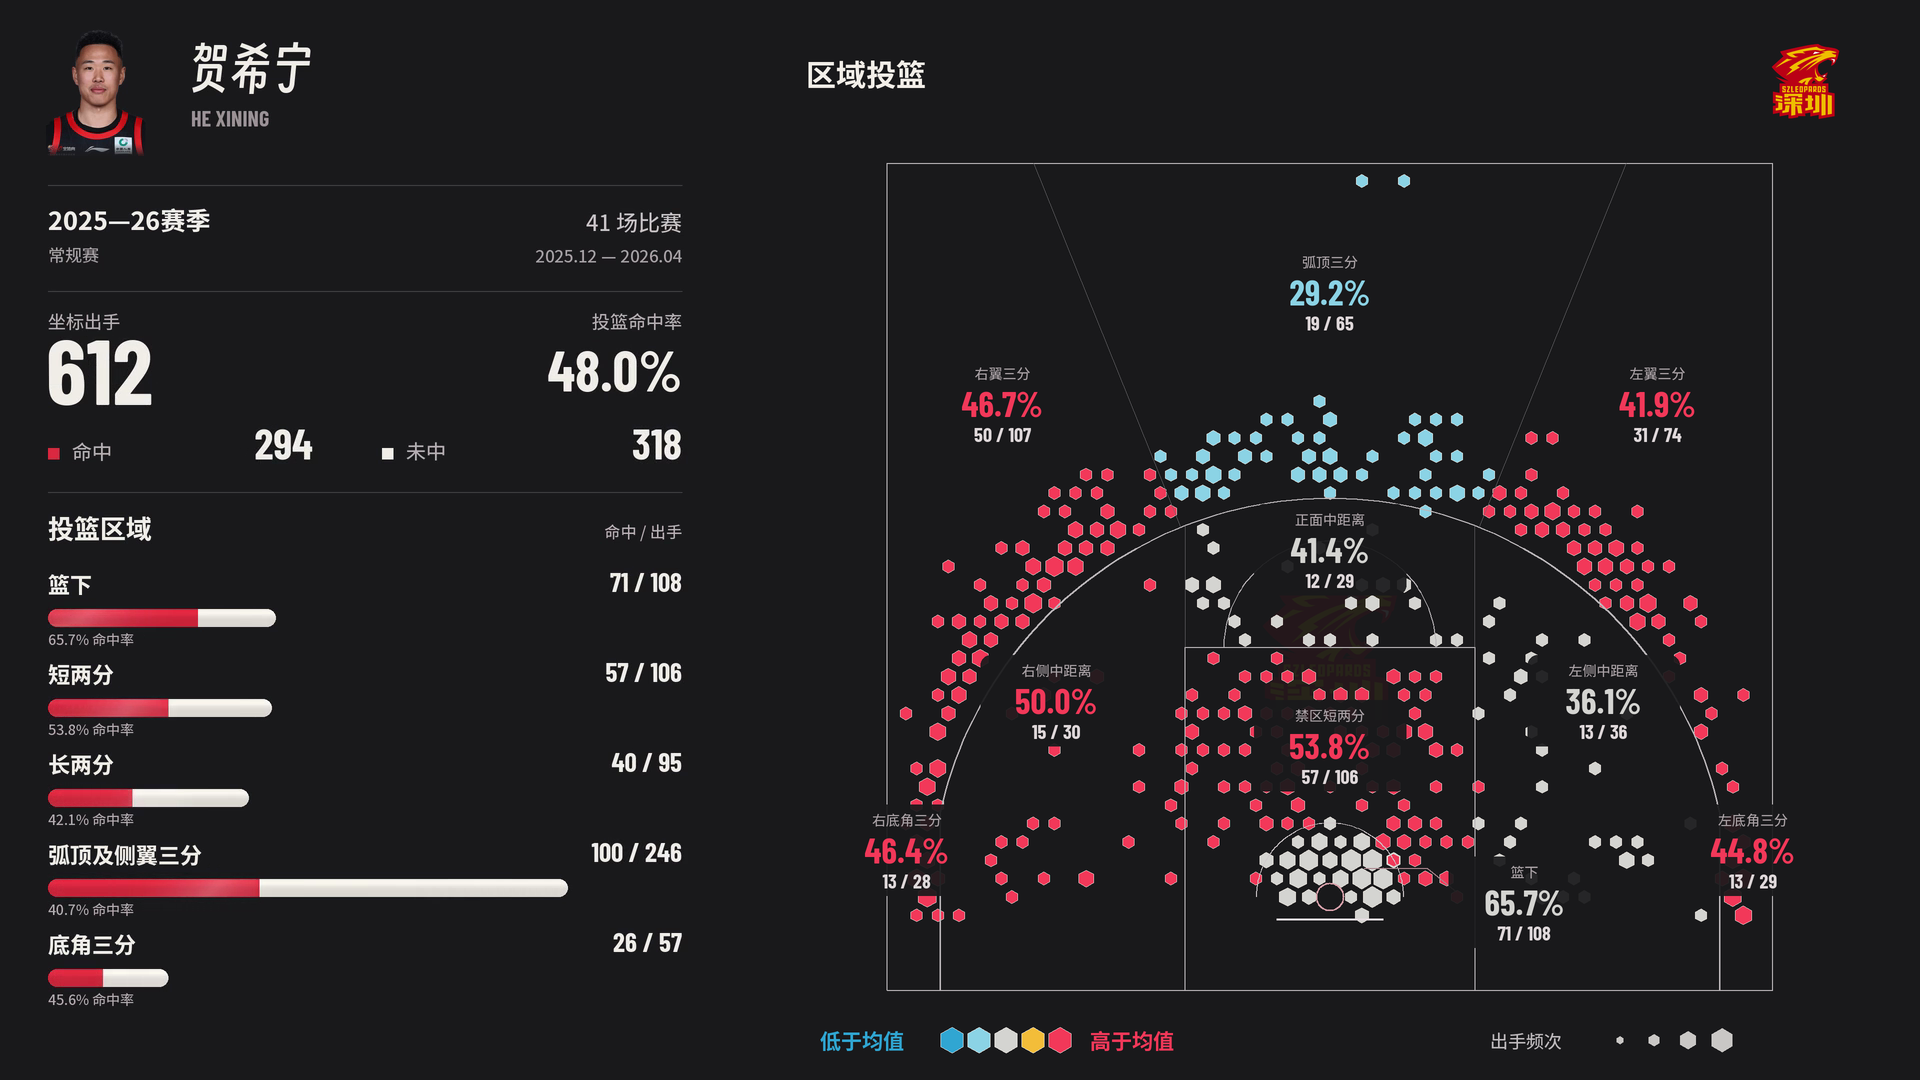
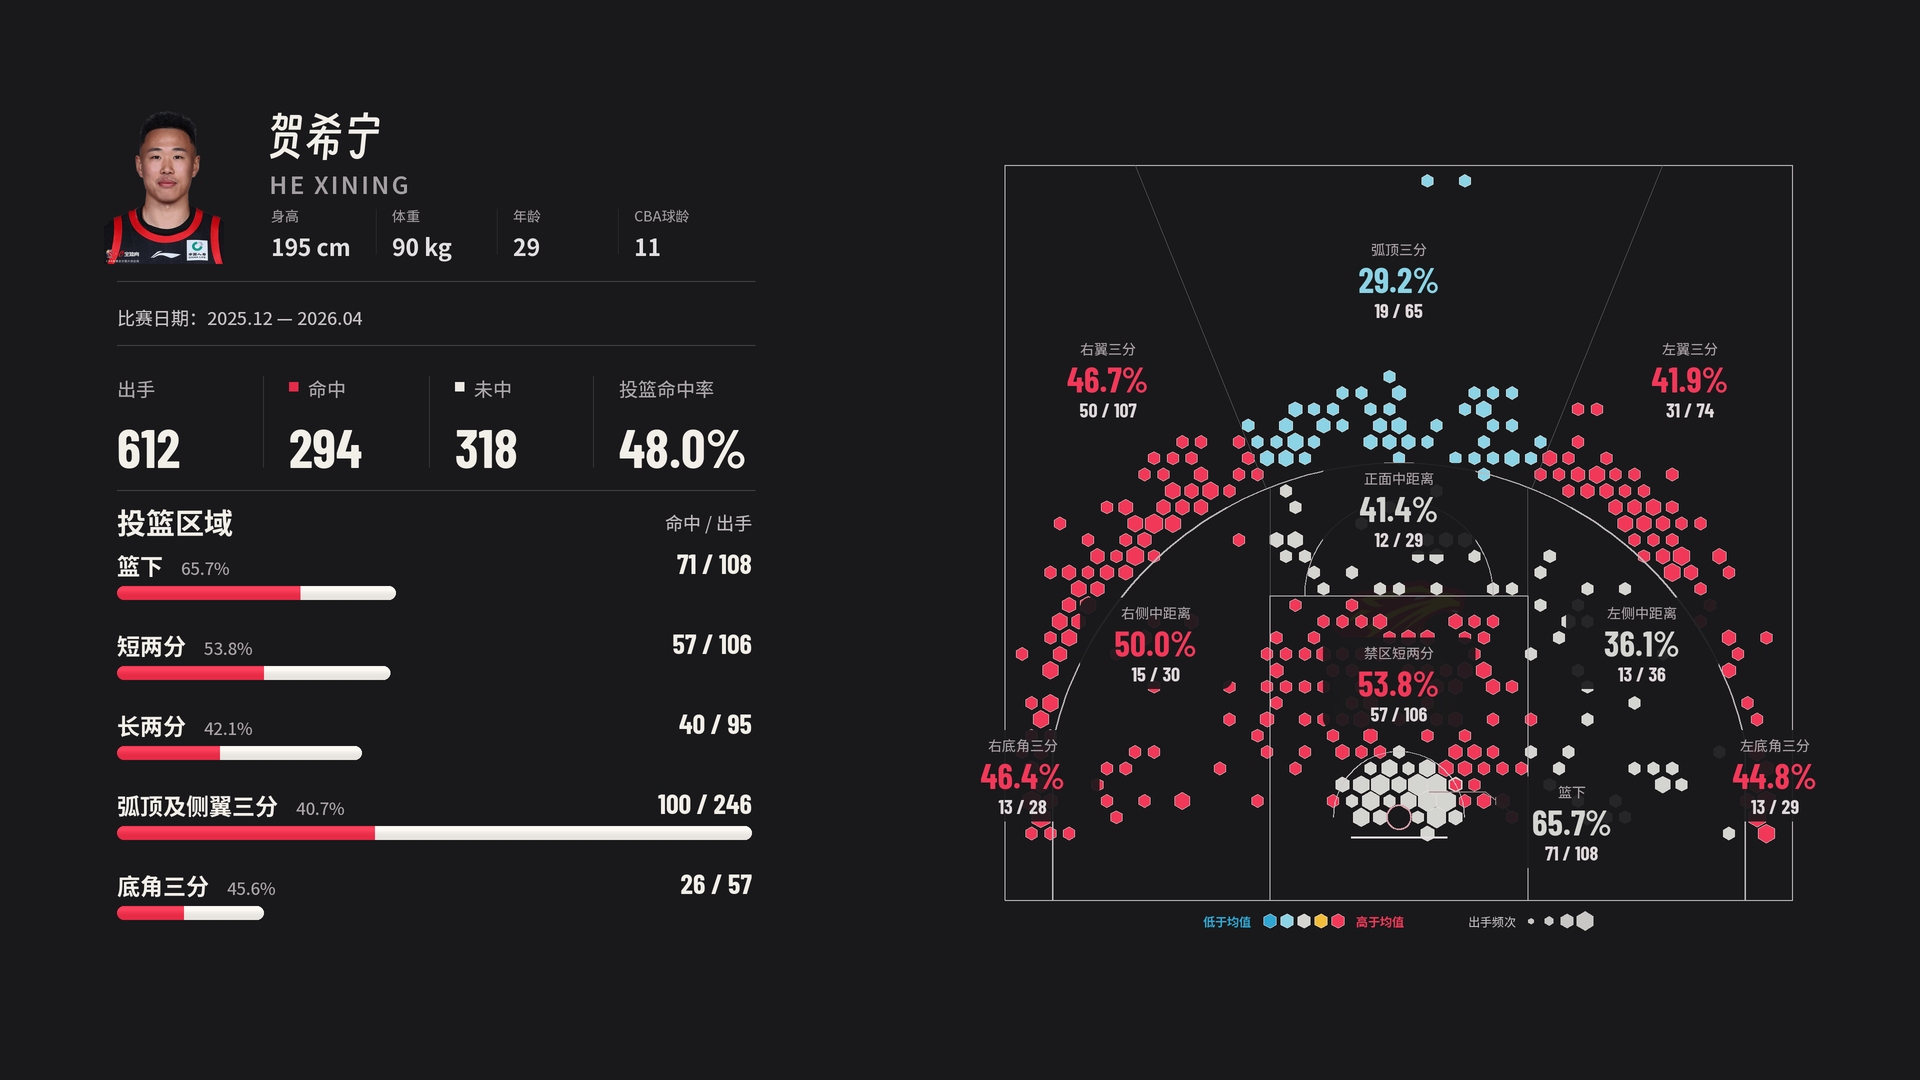
Sync approved date-only sidebar and centered summary legends

diff --git a/skills/nba-shot-atlas/scripts/render_static_summary.py b/skills/nba-shot-atlas/scripts/render_static_summary.py
@@ -71,33 +71,38 @@ en_x=200*S;en_tracking=2.0*S
 for ch in job['name_en']:
  ImageDraw.Draw(side).text((round(en_x),166*S),ch,font=en_font,fill='#a39fa2',anchor='la')
  en_x+=en_font.getlength(ch)+en_tracking
-for j,(label,value) in enumerate([('身高',(f"{job['height_cm']:g} cm" if job.get('height_cm') is not None else '—')),('体重',(f"{job['weight_kg']:g} kg" if job.get('weight_kg') is not None else '—')),('年龄',f'{age}岁' if age is not None else '—'),(job['league']+'球龄',f"第{job['league_season_number']}季" if job.get('league_season_number') else '—')]):
+for j,(label,value) in enumerate([('身高',(f"{job['height_cm']:g} cm" if job.get('height_cm') is not None else '—')),('体重',(f"{job['weight_kg']:g} kg" if job.get('weight_kg') is not None else '—')),('年龄',str(age) if age is not None else '—'),(job['league']+'球龄',str(job['league_season_number']) if job.get('league_season_number') else '—')]):
  x=202+j*121
  st(x,205,label,14,'#9e999d');st(x,229,value,23,'#e1dfe0','bold')
  if j<3:line(side,[(x+105,209),(x+105,254)],'#343437',.7)
 hline(281)
-st(48,305,job['season_label'],30,weight='bold');st(682,305,job['record_label'],21,'#d2ced1',anchor='ra')
-st(48,345,job['scope_label'],20,'#b9b4b8');st(682,345,job['date_label'],18,'#b9b4b8',anchor='ra')
-hline(384)
+# Compact date-only band; the space saved gives the region rows more air.
+date_label=job['date_label']
+if '—' in date_label:
+ left,right=map(str.strip,date_label.split('—',1))
+ if len(right)==5 and len(left)>=10:right=left[:5]+right
+ date_label=left+' — '+right
+st(48,304,'比赛日期：'+date_label,18,'#c6c2c5')
+hline(345)
 # Four independent columns: attempts, makes, misses, FG percentage.
-st(48,410,job.get('attempt_label','坐标出手' if job.get('missing_coordinate_attempts',0) else '出手'),19,'#aaa6a9')
-poly(side,[(220,418),(229,418),(229,427),(220,427)],'#e52b4a');st(239,410,'命中',19,'#aaa6a9')
-poly(side,[(386,418),(395,418),(395,427),(386,427)],'#ede9e3');st(405,410,'未中',19,'#aaa6a9')
-st(550,410,'投篮命中率',19,'#aaa6a9')
-for x in [194,360,524]:line(side,[(x,412),(x,503)],'#353437',.8)
-st(48,450,str(len(rows)),54,weight='number')
-st(220,450,str(job['expected_made']),54,weight='number')
-st(386,450,str(len(rows)-job['expected_made']),54,weight='number')
-st(550,450,f"{100*job['expected_made']/len(rows):.1f}%",54,weight='number')
-hline(526)
-st(48,536,'投篮区域',29,weight='bold');st(683,545,'命中 / 出手',18,'#bdb8bb',anchor='ra')
+st(48,374,job.get('attempt_label','坐标出手' if job.get('missing_coordinate_attempts',0) else '出手'),19,'#aaa6a9')
+poly(side,[(220,382),(229,382),(229,391),(220,391)],'#e52b4a');st(239,374,'命中',19,'#aaa6a9')
+poly(side,[(386,382),(395,382),(395,391),(386,391)],'#ede9e3');st(405,374,'未中',19,'#aaa6a9')
+st(550,374,'投篮命中率',19,'#aaa6a9')
+for x in [194,360,524]:line(side,[(x,376),(x,467)],'#353437',.8)
+st(48,414,str(len(rows)),54,weight='number')
+st(220,414,str(job['expected_made']),54,weight='number')
+st(386,414,str(len(rows)-job['expected_made']),54,weight='number')
+st(550,414,f"{100*job['expected_made']/len(rows):.1f}%",54,weight='number')
+hline(490)
+st(48,500,'投篮区域',29,weight='bold');st(683,509,'命中 / 出手',18,'#bdb8bb',anchor='ra')
 # Sidebar uses the same five rules as the ten-zone court.
 from zone_geometry import coarse as zone
 coarse_side=np.zeros((5,2),int)
 for r in rows:coarse_side[zone(r),0 if r['shot_result']=='Made' else 1]+=1
 names=['篮下','短两分','长两分','弧顶及侧翼三分','底角三分'];scale=max(coarse_side.sum(1));max_width=635
 for i,(label,(m,miss)) in enumerate(zip(names,coarse_side)):
- y=584+i*74;n=int(m+miss);st(48,y,label,23,weight='bold');st(683,y-2,f'{m} / {n}',28,weight='number',anchor='ra')
+ y=548+i*80;n=int(m+miss);st(48,y,label,23,weight='bold');st(683,y-2,f'{m} / {n}',28,weight='number',anchor='ra')
  width=max_width*n/scale if n else 0;by=(y+38)*S;bh=14*S
  if n:
   mask=Image.new('L',(round(width*S),bh));ImageDraw.Draw(mask).rounded_rectangle((0,0,mask.width-1,bh-1),radius=bh/2,fill=255)
@@ -201,12 +206,12 @@ for sg in [-1,1]:
  angle=math.pi/2+sg*math.radians(22)
  line(chart,[xy(THREE*math.cos(angle),THREE*math.sin(angle)),xy((LENGTH-INSET)/math.sin(angle)*math.cos(angle),LENGTH-INSET)],soft,.7)
 # Compact reference-style legends: efficiency colors and shot frequency sizes.
-text(chart,(820,921),'低于均值',21,palette[0],'bold','lm')
+text(chart,(1134,921),'低于均值',12,palette[0],'bold','lm')
 for j,c in enumerate(palette):
- poly(chart,arc_points(952+j*27,921,13,math.pi/6,2*math.pi+math.pi/6,7)[:-1],c,'#e9e4df',.6)
-text(chart,(1090,921),'高于均值',21,palette[-1],'bold','lm')
-text(chart,(1490,921),'出手频次',18,'#bdb9bc','regular','lm')
-for j,r in enumerate([4,6,9,12]):poly(chart,arc_points(1620+j*34,921,r,math.pi/6,2*math.pi+math.pi/6,7)[:-1],'#c9c7c5')
+ poly(chart,arc_points(1201+j*17,921,7.2,math.pi/6,2*math.pi+math.pi/6,7)[:-1],c,'#e9e4df',.6)
+text(chart,(1287,921),'高于均值',12,palette[-1],'bold','lm')
+text(chart,(1399,921),'出手频次',12,'#bdb9bc','regular','lm')
+for j,r in enumerate([3,4.8,7.2,9.6]):poly(chart,arc_points(1462+j*18,921,r,math.pi/6,2*math.pi+math.pi/6,7)[:-1],'#c9c7c5')
 # Labels sit within their corresponding spatial areas; the rim uses a short callout.
 placements=[(10.8,-.2),(0,8.5),(15.2,11.0),(0,19.4),(-15.2,11.0),(18.2,27.5),(0,33.7),(-18.2,27.5),(23.5,2.7),(-23.5,2.7)]
 cards=[]

diff --git a/skills/nba-shot-atlas/scripts/approved_sidebar.py b/skills/nba-shot-atlas/scripts/approved_sidebar.py
@@ -49,31 +49,36 @@ def render(job,rows,counts,n,project,t=0):
  for ch in job['name_en']:
   ImageDraw.Draw(side).text((round(en_x),166*S),ch,font=en_font,fill='#a39fa2',anchor='la')
   en_x+=en_font.getlength(ch)+en_tracking
- for j,(label,value) in enumerate([('身高',(f"{job['height_cm']:g} cm" if job.get('height_cm') is not None else '—')),('体重',(f"{job['weight_kg']:g} kg" if job.get('weight_kg') is not None else '—')),('年龄',f'{age}岁' if age is not None else '—'),(job['league']+'球龄',f"第{job['league_season_number']}季" if job.get('league_season_number') else '—')]):
+ for j,(label,value) in enumerate([('身高',(f"{job['height_cm']:g} cm" if job.get('height_cm') is not None else '—')),('体重',(f"{job['weight_kg']:g} kg" if job.get('weight_kg') is not None else '—')),('年龄',str(age) if age is not None else '—'),(job['league']+'球龄',str(job['league_season_number']) if job.get('league_season_number') else '—')]):
   x=202+j*121
   st(x,205,label,14,'#9e999d');st(x,229,value,23,'#e1dfe0','bold')
   if j<3:line(side,[(x+105,209),(x+105,254)],'#343437',.7)
  hline(281)
- st(48,305,job['season_label'],30,weight='bold');st(682,305,job['record_label'],21,'#d2ced1',anchor='ra')
- st(48,345,job['scope_label'],20,'#b9b4b8');st(682,345,job['date_label'],18,'#b9b4b8',anchor='ra')
- hline(384)
+ # Compact date-only band; the space saved gives the region rows more air.
+ date_label=job['date_label']
+ if '—' in date_label:
+  left,right=map(str.strip,date_label.split('—',1))
+  if len(right)==5 and len(left)>=10:right=left[:5]+right
+  date_label=left+' — '+right
+ st(48,304,'比赛日期：'+date_label,18,'#c6c2c5')
+ hline(345)
  # Four independent columns: attempts, makes, misses, FG percentage.
- st(48,410,job.get('attempt_label','坐标出手' if job.get('missing_coordinate_attempts',0) else '出手'),19,'#aaa6a9')
- poly(side,[(220,418),(229,418),(229,427),(220,427)],'#e52b4a');st(239,410,'命中',19,'#aaa6a9')
- poly(side,[(386,418),(395,418),(395,427),(386,427)],'#ede9e3');st(405,410,'未中',19,'#aaa6a9')
- st(550,410,'投篮命中率',19,'#aaa6a9')
- for x in [194,360,524]:line(side,[(x,412),(x,503)],'#353437',.8)
- st(48,450,str(n),54,weight='number')
- st(220,450,str(made_count),54,weight='number')
- st(386,450,str(n-made_count),54,weight='number')
- st(550,450,f"{(100*made_count/n if n else 0):.1f}%",54,weight='number')
- hline(526)
- st(48,536,'投篮区域',29,weight='bold');st(683,545,'命中 / 出手',18,'#bdb8bb',anchor='ra')
+ st(48,374,job.get('attempt_label','坐标出手' if job.get('missing_coordinate_attempts',0) else '出手'),19,'#aaa6a9')
+ poly(side,[(220,382),(229,382),(229,391),(220,391)],'#e52b4a');st(239,374,'命中',19,'#aaa6a9')
+ poly(side,[(386,382),(395,382),(395,391),(386,391)],'#ede9e3');st(405,374,'未中',19,'#aaa6a9')
+ st(550,374,'投篮命中率',19,'#aaa6a9')
+ for x in [194,360,524]:line(side,[(x,376),(x,467)],'#353437',.8)
+ st(48,414,str(n),54,weight='number')
+ st(220,414,str(made_count),54,weight='number')
+ st(386,414,str(n-made_count),54,weight='number')
+ st(550,414,f"{(100*made_count/n if n else 0):.1f}%",54,weight='number')
+ hline(490)
+ st(48,500,'投篮区域',29,weight='bold');st(683,509,'命中 / 出手',18,'#bdb8bb',anchor='ra')
  # Sidebar uses the same five rules as the ten-zone court.
  coarse_side=np.asarray(counts,dtype=int)
  names=['篮下','短两分','长两分','弧顶及侧翼三分','底角三分'];scale=max(1,job['bar_scale']);max_width=635
  for i,(label,(m,miss)) in enumerate(zip(names,coarse_side)):
-  y=584+i*74;n=int(m+miss);st(48,y,label,23,weight='bold');st(683,y-2,f'{m} / {n}',28,weight='number',anchor='ra')
+  y=548+i*80;n=int(m+miss);st(48,y,label,23,weight='bold');st(683,y-2,f'{m} / {n}',28,weight='number',anchor='ra')
   width=max_width*n/scale if n else 0;by=(y+38)*S;bh=14*S
   if n:
    mask=Image.new('L',(round(width*S),bh));ImageDraw.Draw(mask).rounded_rectangle((0,0,mask.width-1,bh-1),radius=bh/2,fill=255)
@@ -83,9 +88,9 @@ def render(job,rows,counts,n,project,t=0):
    ar=np.asarray(bar).copy().astype(float)
    for yy in range(bh):ar[yy]=np.clip(ar[yy]+18*np.exp(-((yy-bh*.2)/(bh*.26))**2)-7*yy/bh,0,255)
    xx=np.arange(ar.shape[1])/S;centre=-90+((t+i*.26)%4.8)/4.8*(max_width+180)
-  gloss=.10*np.exp(-((xx-centre)/46)**2)
-  ar=np.clip(ar+(255-ar)*gloss[None,:,None],0,255)
-  side.paste(Image.fromarray(ar.astype('uint8')),(48*S,by),mask)
+   gloss=.10*np.exp(-((xx-centre)/46)**2)
+   ar=np.clip(ar+(255-ar)*gloss[None,:,None],0,255)
+   side.paste(Image.fromarray(ar.astype('uint8')),(48*S,by),mask)
   label_width=font(23,'bold').getlength(label)/S
   st(48+label_width+18,y+7,f'{100*m/n:.1f}%' if n else '—',17,'#a9a3a7')
  # Baseline remains in audit and delivery description; no extra text in subtitle band.

diff --git a/skills/nba-shot-atlas/references/production.md b/skills/nba-shot-atlas/references/production.md
@@ -77,10 +77,12 @@ python scripts/append_zone_summary.py <project> --video <轨迹MP4> --league-sho
 
 ## 审定样式与执行
 
-最新样式以SKILL.md“最新审定排版与安全区”和assets/approved-preview.png（静态图）为准。保留两行赛季信息、四列总计、正常宽度英文名、宽松柱状图、不显示右侧标题/右上Logo。1080顶部96/底部144，横向内容重排并右移69，不能再使用全图等比缩小补边。
+最新样式以SKILL.md“最新审定排版与安全区”和assets/approved-preview.png（静态图）为准。仅保留单行日期（18px同色、紧接冒号）、四列总计、正常宽度英文名、宽松柱状图、不显示右侧标题/右上Logo。1080顶部96/底部144，横向内容重排并右移69，不能再使用全图等比缩小补边。
 
 render_video.py在已有configure/半场/场边/稳定相机及CBA适配之后，自动调用apply_approved_layout.py，复用approved_sidebar.py绘制每一帧同款侧栏，只给3D投影做固定安全区校准。同一相机投影同时驱动轨迹和圈叉，禁止每帧追随投篮云。
 
 完整job补充height_cm/weight_kg/birth_date/age_as_of/league_season_number，scope_label、record_label、date_label可显式给定真实口径；没有资料时模板只显示—，agent应在正式交付前核实补全。球龄按真实参加联盟赛季计，非机械年份差。
 
 append_zone_summary.py/append_cba_summary.py调用render_static_summary.py使用同款十区图，左栏按源片冻结；新成片已留白，不再调用safe_area.py给整段二次缩小。旧源片须从项目重新生成，不能混用旧侧栏与新总结。只交轨迹时render_video.py输出也已包含安全区。每帧的source尺寸/FPS不变。
+
+最新确认版：assets/approved-preview.png。日期行高64px（y281-345），统计区整体上移，五区首行y548、行距80px、柱高14px；底部图例合为一行居于球场中心，文字12px、五色点半径7.2px、频次点半径3/4.8/7.2/9.6px，文字与图形靠近。不要恢复三列元信息、赛季/比分、队标或大尺寸图例。筛选口径、系列赛信息仍可留job与交付说明，不在图面重复。
